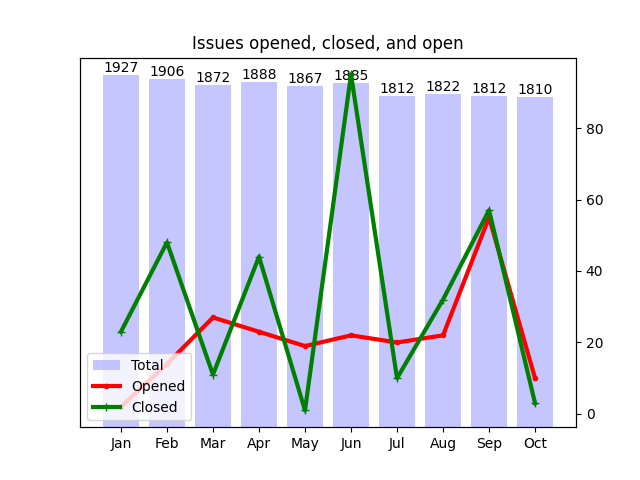
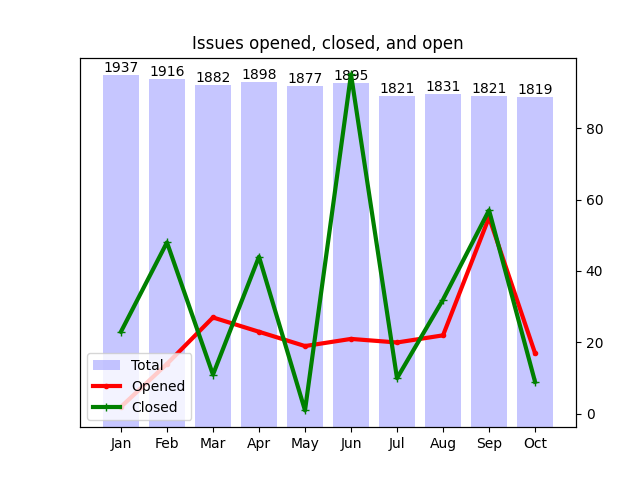
Apply automatic changes

diff --git a/docs/analytics.html b/docs/analytics.html
@@ -67,7 +67,7 @@
 						</tr>
 						<tr>
 							<td>Jun</td>
-							<td>22</td>
+							<td>21</td>
 							<td>95</td>
 						</tr>
 						<tr>
@@ -87,8 +87,8 @@
 						</tr>
 						<tr>
 							<td>Oct</td>
-							<td>10</td>
-							<td>3</td>
+							<td>17</td>
+							<td>9</td>
 						</tr>
 					</table>
 				</div>
@@ -162,7 +162,7 @@
 							<td>
 								<a href="http://github.com/notofonts/devanagari">devanagari</a>
 							</td>
-							<td>14</td>
+							<td>13</td>
 						</tr>
 					</table>
 				</div>
@@ -179,37 +179,37 @@
 				<tr>
 					<td>1</td>
 					<td>
-						<a href="http://github.com/notofonts/avestan">avestan</a>,  						<a href="http://github.com/notofonts/bamum">bamum</a>,  						<a href="http://github.com/notofonts/carian">carian</a>,  						<a href="http://github.com/notofonts/deseret">deseret</a>,  						<a href="http://github.com/notofonts/gothic">gothic</a>,  						<a href="http://github.com/notofonts/hanunoo">hanunoo</a>,  						<a href="http://github.com/notofonts/linear-a">linear-a</a>,  						<a href="http://github.com/notofonts/lisu">lisu</a>,  						<a href="http://github.com/notofonts/mahajani">mahajani</a>,  						<a href="http://github.com/notofonts/meetei-mayek">meetei-mayek</a>,  						<a href="http://github.com/notofonts/mende-kikakui">mende-kikakui</a>,  						<a href="http://github.com/notofonts/miao">miao</a>,  						<a href="http://github.com/notofonts/old-italic">old-italic</a>,  						<a href="http://github.com/notofonts/old-persian">old-persian</a>,  						<a href="http://github.com/notofonts/old-uyghur">old-uyghur</a>,  						<a href="http://github.com/notofonts/phoenician">phoenician</a>,  						<a href="http://github.com/notofonts/runic">runic</a>,  						<a href="http://github.com/notofonts/saurashtra">saurashtra</a>,  						<a href="http://github.com/notofonts/sinhala">sinhala</a>,  						<a href="http://github.com/notofonts/sogdian">sogdian</a>,  						<a href="http://github.com/notofonts/tai-le">tai-le</a>,  						<a href="http://github.com/notofonts/tai-viet">tai-viet</a>,  						<a href="http://github.com/notofonts/thaana">thaana</a>,  						<a href="http://github.com/notofonts/wancho">wancho</a>,  						<a href="http://github.com/notofonts/warang-citi">warang-citi</a> 
+						<a href="http://github.com/notofonts/avestan">avestan</a>,  						<a href="http://github.com/notofonts/bamum">bamum</a>,  						<a href="http://github.com/notofonts/carian">carian</a>,  						<a href="http://github.com/notofonts/deseret">deseret</a>,  						<a href="http://github.com/notofonts/gothic">gothic</a>,  						<a href="http://github.com/notofonts/hanunoo">hanunoo</a>,  						<a href="http://github.com/notofonts/linear-a">linear-a</a>,  						<a href="http://github.com/notofonts/lisu">lisu</a>,  						<a href="http://github.com/notofonts/mahajani">mahajani</a>,  						<a href="http://github.com/notofonts/masaram-gondi">masaram-gondi</a>,  						<a href="http://github.com/notofonts/meetei-mayek">meetei-mayek</a>,  						<a href="http://github.com/notofonts/mende-kikakui">mende-kikakui</a>,  						<a href="http://github.com/notofonts/miao">miao</a>,  						<a href="http://github.com/notofonts/newa">newa</a>,  						<a href="http://github.com/notofonts/old-italic">old-italic</a>,  						<a href="http://github.com/notofonts/old-persian">old-persian</a>,  						<a href="http://github.com/notofonts/old-uyghur">old-uyghur</a>,  						<a href="http://github.com/notofonts/phoenician">phoenician</a>,  						<a href="http://github.com/notofonts/runic">runic</a>,  						<a href="http://github.com/notofonts/saurashtra">saurashtra</a>,  						<a href="http://github.com/notofonts/sinhala">sinhala</a>,  						<a href="http://github.com/notofonts/sogdian">sogdian</a>,  						<a href="http://github.com/notofonts/tai-le">tai-le</a>,  						<a href="http://github.com/notofonts/tai-viet">tai-viet</a>,  						<a href="http://github.com/notofonts/thaana">thaana</a>,  						<a href="http://github.com/notofonts/wancho">wancho</a>,  						<a href="http://github.com/notofonts/warang-citi">warang-citi</a> 
 					</td>
 				</tr>
 				<tr>
 					<td>2</td>
 					<td>
-						<a href="http://github.com/notofonts/ahom">ahom</a>,  						<a href="http://github.com/notofonts/cham">cham</a>,  						<a href="http://github.com/notofonts/chorasmian">chorasmian</a>,  						<a href="http://github.com/notofonts/coptic">coptic</a>,  						<a href="http://github.com/notofonts/elbasan">elbasan</a>,  						<a href="http://github.com/notofonts/elymaic">elymaic</a>,  						<a href="http://github.com/notofonts/georgian">georgian</a>,  						<a href="http://github.com/notofonts/hanifi-rohingya">hanifi-rohingya</a>,  						<a href="http://github.com/notofonts/inscriptional-pahlavi">inscriptional-pahlavi</a>,  						<a href="http://github.com/notofonts/kharoshthi">kharoshthi</a>,  						<a href="http://github.com/notofonts/lao">lao</a>,  						<a href="http://github.com/notofonts/lepcha">lepcha</a>,  						<a href="http://github.com/notofonts/limbu">limbu</a>,  						<a href="http://github.com/notofonts/lydian">lydian</a>,  						<a href="http://github.com/notofonts/marchen">marchen</a>,  						<a href="http://github.com/notofonts/meroitic">meroitic</a>,  						<a href="http://github.com/notofonts/mongolian">mongolian</a>,  						<a href="http://github.com/notofonts/multani">multani</a>,  						<a href="http://github.com/notofonts/newa">newa</a>,  						<a href="http://github.com/notofonts/nko">nko</a>,  						<a href="http://github.com/notofonts/old-hungarian">old-hungarian</a>,  						<a href="http://github.com/notofonts/old-turkic">old-turkic</a>,  						<a href="http://github.com/notofonts/pahawh-hmong">pahawh-hmong</a>,  						<a href="http://github.com/notofonts/phags-pa">phags-pa</a>,  						<a href="http://github.com/notofonts/psalter-pahlavi">psalter-pahlavi</a>,  						<a href="http://github.com/notofonts/samaritan">samaritan</a>,  						<a href="http://github.com/notofonts/sharada">sharada</a>,  						<a href="http://github.com/notofonts/tangsa">tangsa</a>,  						<a href="http://github.com/notofonts/yezidi">yezidi</a> 
+						<a href="http://github.com/notofonts/ahom">ahom</a>,  						<a href="http://github.com/notofonts/cham">cham</a>,  						<a href="http://github.com/notofonts/chorasmian">chorasmian</a>,  						<a href="http://github.com/notofonts/coptic">coptic</a>,  						<a href="http://github.com/notofonts/elbasan">elbasan</a>,  						<a href="http://github.com/notofonts/elymaic">elymaic</a>,  						<a href="http://github.com/notofonts/georgian">georgian</a>,  						<a href="http://github.com/notofonts/hanifi-rohingya">hanifi-rohingya</a>,  						<a href="http://github.com/notofonts/inscriptional-pahlavi">inscriptional-pahlavi</a>,  						<a href="http://github.com/notofonts/kharoshthi">kharoshthi</a>,  						<a href="http://github.com/notofonts/lao">lao</a>,  						<a href="http://github.com/notofonts/lepcha">lepcha</a>,  						<a href="http://github.com/notofonts/limbu">limbu</a>,  						<a href="http://github.com/notofonts/lydian">lydian</a>,  						<a href="http://github.com/notofonts/marchen">marchen</a>,  						<a href="http://github.com/notofonts/meroitic">meroitic</a>,  						<a href="http://github.com/notofonts/multani">multani</a>,  						<a href="http://github.com/notofonts/nko">nko</a>,  						<a href="http://github.com/notofonts/old-hungarian">old-hungarian</a>,  						<a href="http://github.com/notofonts/old-turkic">old-turkic</a>,  						<a href="http://github.com/notofonts/pahawh-hmong">pahawh-hmong</a>,  						<a href="http://github.com/notofonts/phags-pa">phags-pa</a>,  						<a href="http://github.com/notofonts/psalter-pahlavi">psalter-pahlavi</a>,  						<a href="http://github.com/notofonts/samaritan">samaritan</a>,  						<a href="http://github.com/notofonts/sharada">sharada</a>,  						<a href="http://github.com/notofonts/tangsa">tangsa</a>,  						<a href="http://github.com/notofonts/yezidi">yezidi</a>,  						<a href="http://github.com/notofonts/zanabazar-square">zanabazar-square</a> 
 					</td>
 				</tr>
 				<tr>
 					<td>3</td>
 					<td>
-						<a href="http://github.com/notofonts/Cousine">Cousine</a>,  						<a href="http://github.com/notofonts/Tinos">Tinos</a>,  						<a href="http://github.com/notofonts/dogra">dogra</a>,  						<a href="http://github.com/notofonts/duployan">duployan</a>,  						<a href="http://github.com/notofonts/glagolitic">glagolitic</a>,  						<a href="http://github.com/notofonts/gunjala-gondi">gunjala-gondi</a>,  						<a href="http://github.com/notofonts/khudawadi">khudawadi</a>,  						<a href="http://github.com/notofonts/mandaic">mandaic</a>,  						<a href="http://github.com/notofonts/nushu">nushu</a>,  						<a href="http://github.com/notofonts/nyiakeng-puachue-hmong">nyiakeng-puachue-hmong</a>,  						<a href="http://github.com/notofonts/old-sogdian">old-sogdian</a>,  						<a href="http://github.com/notofonts/rejang">rejang</a>,  						<a href="http://github.com/notofonts/soyombo">soyombo</a>,  						<a href="http://github.com/notofonts/sundanese">sundanese</a>,  						<a href="http://github.com/notofonts/tagalog">tagalog</a>,  						<a href="http://github.com/notofonts/takri">takri</a> 
+						<a href="http://github.com/notofonts/Cousine">Cousine</a>,  						<a href="http://github.com/notofonts/Tinos">Tinos</a>,  						<a href="http://github.com/notofonts/duployan">duployan</a>,  						<a href="http://github.com/notofonts/glagolitic">glagolitic</a>,  						<a href="http://github.com/notofonts/gunjala-gondi">gunjala-gondi</a>,  						<a href="http://github.com/notofonts/khudawadi">khudawadi</a>,  						<a href="http://github.com/notofonts/mandaic">mandaic</a>,  						<a href="http://github.com/notofonts/mongolian">mongolian</a>,  						<a href="http://github.com/notofonts/nushu">nushu</a>,  						<a href="http://github.com/notofonts/nyiakeng-puachue-hmong">nyiakeng-puachue-hmong</a>,  						<a href="http://github.com/notofonts/old-sogdian">old-sogdian</a>,  						<a href="http://github.com/notofonts/rejang">rejang</a>,  						<a href="http://github.com/notofonts/soyombo">soyombo</a>,  						<a href="http://github.com/notofonts/tagalog">tagalog</a>,  						<a href="http://github.com/notofonts/takri">takri</a> 
 					</td>
 				</tr>
 				<tr>
 					<td>4</td>
 					<td>
-						<a href="http://github.com/notofonts/caucasian-albanian">caucasian-albanian</a>,  						<a href="http://github.com/notofonts/grantha">grantha</a>,  						<a href="http://github.com/notofonts/manichaean">manichaean</a>,  						<a href="http://github.com/notofonts/oriya">oriya</a>,  						<a href="http://github.com/notofonts/tai-tham">tai-tham</a>,  						<a href="http://github.com/notofonts/telugu">telugu</a> 
+						<a href="http://github.com/notofonts/caucasian-albanian">caucasian-albanian</a>,  						<a href="http://github.com/notofonts/dogra">dogra</a>,  						<a href="http://github.com/notofonts/grantha">grantha</a>,  						<a href="http://github.com/notofonts/manichaean">manichaean</a>,  						<a href="http://github.com/notofonts/oriya">oriya</a>,  						<a href="http://github.com/notofonts/sundanese">sundanese</a>,  						<a href="http://github.com/notofonts/tai-tham">tai-tham</a> 
 					</td>
 				</tr>
 				<tr>
 					<td>5</td>
 					<td>
-						<a href="http://github.com/notofonts/armenian">armenian</a>,  						<a href="http://github.com/notofonts/bhaiksuki">bhaiksuki</a>,  						<a href="http://github.com/notofonts/canadian-aboriginal">canadian-aboriginal</a>,  						<a href="http://github.com/notofonts/javanese">javanese</a>,  						<a href="http://github.com/notofonts/khojki">khojki</a>,  						<a href="http://github.com/notofonts/modi">modi</a>,  						<a href="http://github.com/notofonts/nandinagari">nandinagari</a> 
+						<a href="http://github.com/notofonts/armenian">armenian</a>,  						<a href="http://github.com/notofonts/bhaiksuki">bhaiksuki</a>,  						<a href="http://github.com/notofonts/canadian-aboriginal">canadian-aboriginal</a>,  						<a href="http://github.com/notofonts/egyptian-hieroglyphs">egyptian-hieroglyphs</a>,  						<a href="http://github.com/notofonts/javanese">javanese</a>,  						<a href="http://github.com/notofonts/khojki">khojki</a>,  						<a href="http://github.com/notofonts/modi">modi</a>,  						<a href="http://github.com/notofonts/nandinagari">nandinagari</a>,  						<a href="http://github.com/notofonts/telugu">telugu</a> 
 					</td>
 				</tr>
 				<tr>
 					<td>6</td>
 					<td>
-						<a href="http://github.com/notofonts/adlam">adlam</a>,  						<a href="http://github.com/notofonts/brahmi">brahmi</a>,  						<a href="http://github.com/notofonts/egyptian-hieroglyphs">egyptian-hieroglyphs</a>,  						<a href="http://github.com/notofonts/ethiopic">ethiopic</a>,  						<a href="http://github.com/notofonts/kaithi">kaithi</a>,  						<a href="http://github.com/notofonts/sign-writing">sign-writing</a> 
+						<a href="http://github.com/notofonts/adlam">adlam</a>,  						<a href="http://github.com/notofonts/brahmi">brahmi</a>,  						<a href="http://github.com/notofonts/ethiopic">ethiopic</a>,  						<a href="http://github.com/notofonts/kaithi">kaithi</a>,  						<a href="http://github.com/notofonts/sign-writing">sign-writing</a> 
 					</td>
 				</tr>
 				<tr>
@@ -474,16 +474,27 @@
 							<td>
 								<ul>
 									<li><a href="https://github.com/notofonts/bhaiksuki/releases/tag/NotoSansBhaiksuki-v2.002">NotoSansBhaiksuki-v2.002</a></li>
+									<li><a href="https://github.com/notofonts/chorasmian/releases/tag/NotoSansChorasmian-v1.002">NotoSansChorasmian-v1.002</a></li>
+									<li><a href="https://github.com/notofonts/dives-akuru/releases/tag/NotoSerifDivesAkuru-v1.001">NotoSerifDivesAkuru-v1.001</a></li>
 									<li><a href="https://github.com/notofonts/dogra/releases/tag/NotoSerifDogra-v1.006">NotoSerifDogra-v1.006</a></li>
+									<li><a href="https://github.com/notofonts/elbasan/releases/tag/NotoSansElbasan-v2.004">NotoSansElbasan-v2.004</a></li>
 									<li><a href="https://github.com/notofonts/lepcha/releases/tag/NotoSansLepcha-v2.005">NotoSansLepcha-v2.005</a></li>
+									<li><a href="https://github.com/notofonts/makasar/releases/tag/NotoSerifMakasar-v1.001">NotoSerifMakasar-v1.001</a></li>
 									<li><a href="https://github.com/notofonts/modi/releases/tag/NotoSansModi-v2.003">NotoSansModi-v2.003</a></li>
 									<li><a href="https://github.com/notofonts/multani/releases/tag/NotoSansMultani-v2.002">NotoSansMultani-v2.002</a></li>
+									<li><a href="https://github.com/notofonts/newa/releases/tag/NotoSansNewa-v2.006">NotoSansNewa-v2.006</a></li>
+									<li><a href="https://github.com/notofonts/old-uyghur/releases/tag/NotoSerifOldUyghur-v1.002">NotoSerifOldUyghur-v1.002</a></li>
+									<li><a href="https://github.com/notofonts/saurashtra/releases/tag/NotoSansSaurashtra-v2.002">NotoSansSaurashtra-v2.002</a></li>
 									<li><a href="https://github.com/notofonts/sharada/releases/tag/NotoSansSharada-v2.005">NotoSansSharada-v2.005</a></li>
 									<li><a href="https://github.com/notofonts/siddham/releases/tag/NotoSansSiddham-v2.004">NotoSansSiddham-v2.004</a></li>
 									<li><a href="https://github.com/notofonts/sogdian/releases/tag/NotoSansSogdian-v2.002">NotoSansSogdian-v2.002</a></li>
+									<li><a href="https://github.com/notofonts/sundanese/releases/tag/NotoSansSundanese-v2.003">NotoSansSundanese-v2.003</a></li>
 									<li><a href="https://github.com/notofonts/syloti-nagri/releases/tag/NotoSansSylotiNagri-v2.003">NotoSansSylotiNagri-v2.003</a></li>
 									<li><a href="https://github.com/notofonts/tangut/releases/tag/NotoSerifTangut-v2.169">NotoSerifTangut-v2.169</a></li>
 									<li><a href="https://github.com/notofonts/ugaritic/releases/tag/NotoSansUgaritic-v2.001">NotoSansUgaritic-v2.001</a></li>
+									<li><a href="https://github.com/notofonts/vithkuqi/releases/tag/NotoSansVithkuqi-v1.001">NotoSansVithkuqi-v1.001</a></li>
+									<li><a href="https://github.com/notofonts/vithkuqi/releases/tag/NotoSerifVithkuqi-v1.005">NotoSerifVithkuqi-v1.005</a></li>
+									<li><a href="https://github.com/notofonts/zanabazar-square/releases/tag/NotoSansZanabazarSquare-v2.005">NotoSansZanabazarSquare-v2.005</a></li>
 								</ul>
 							</td>
 						</tr>
